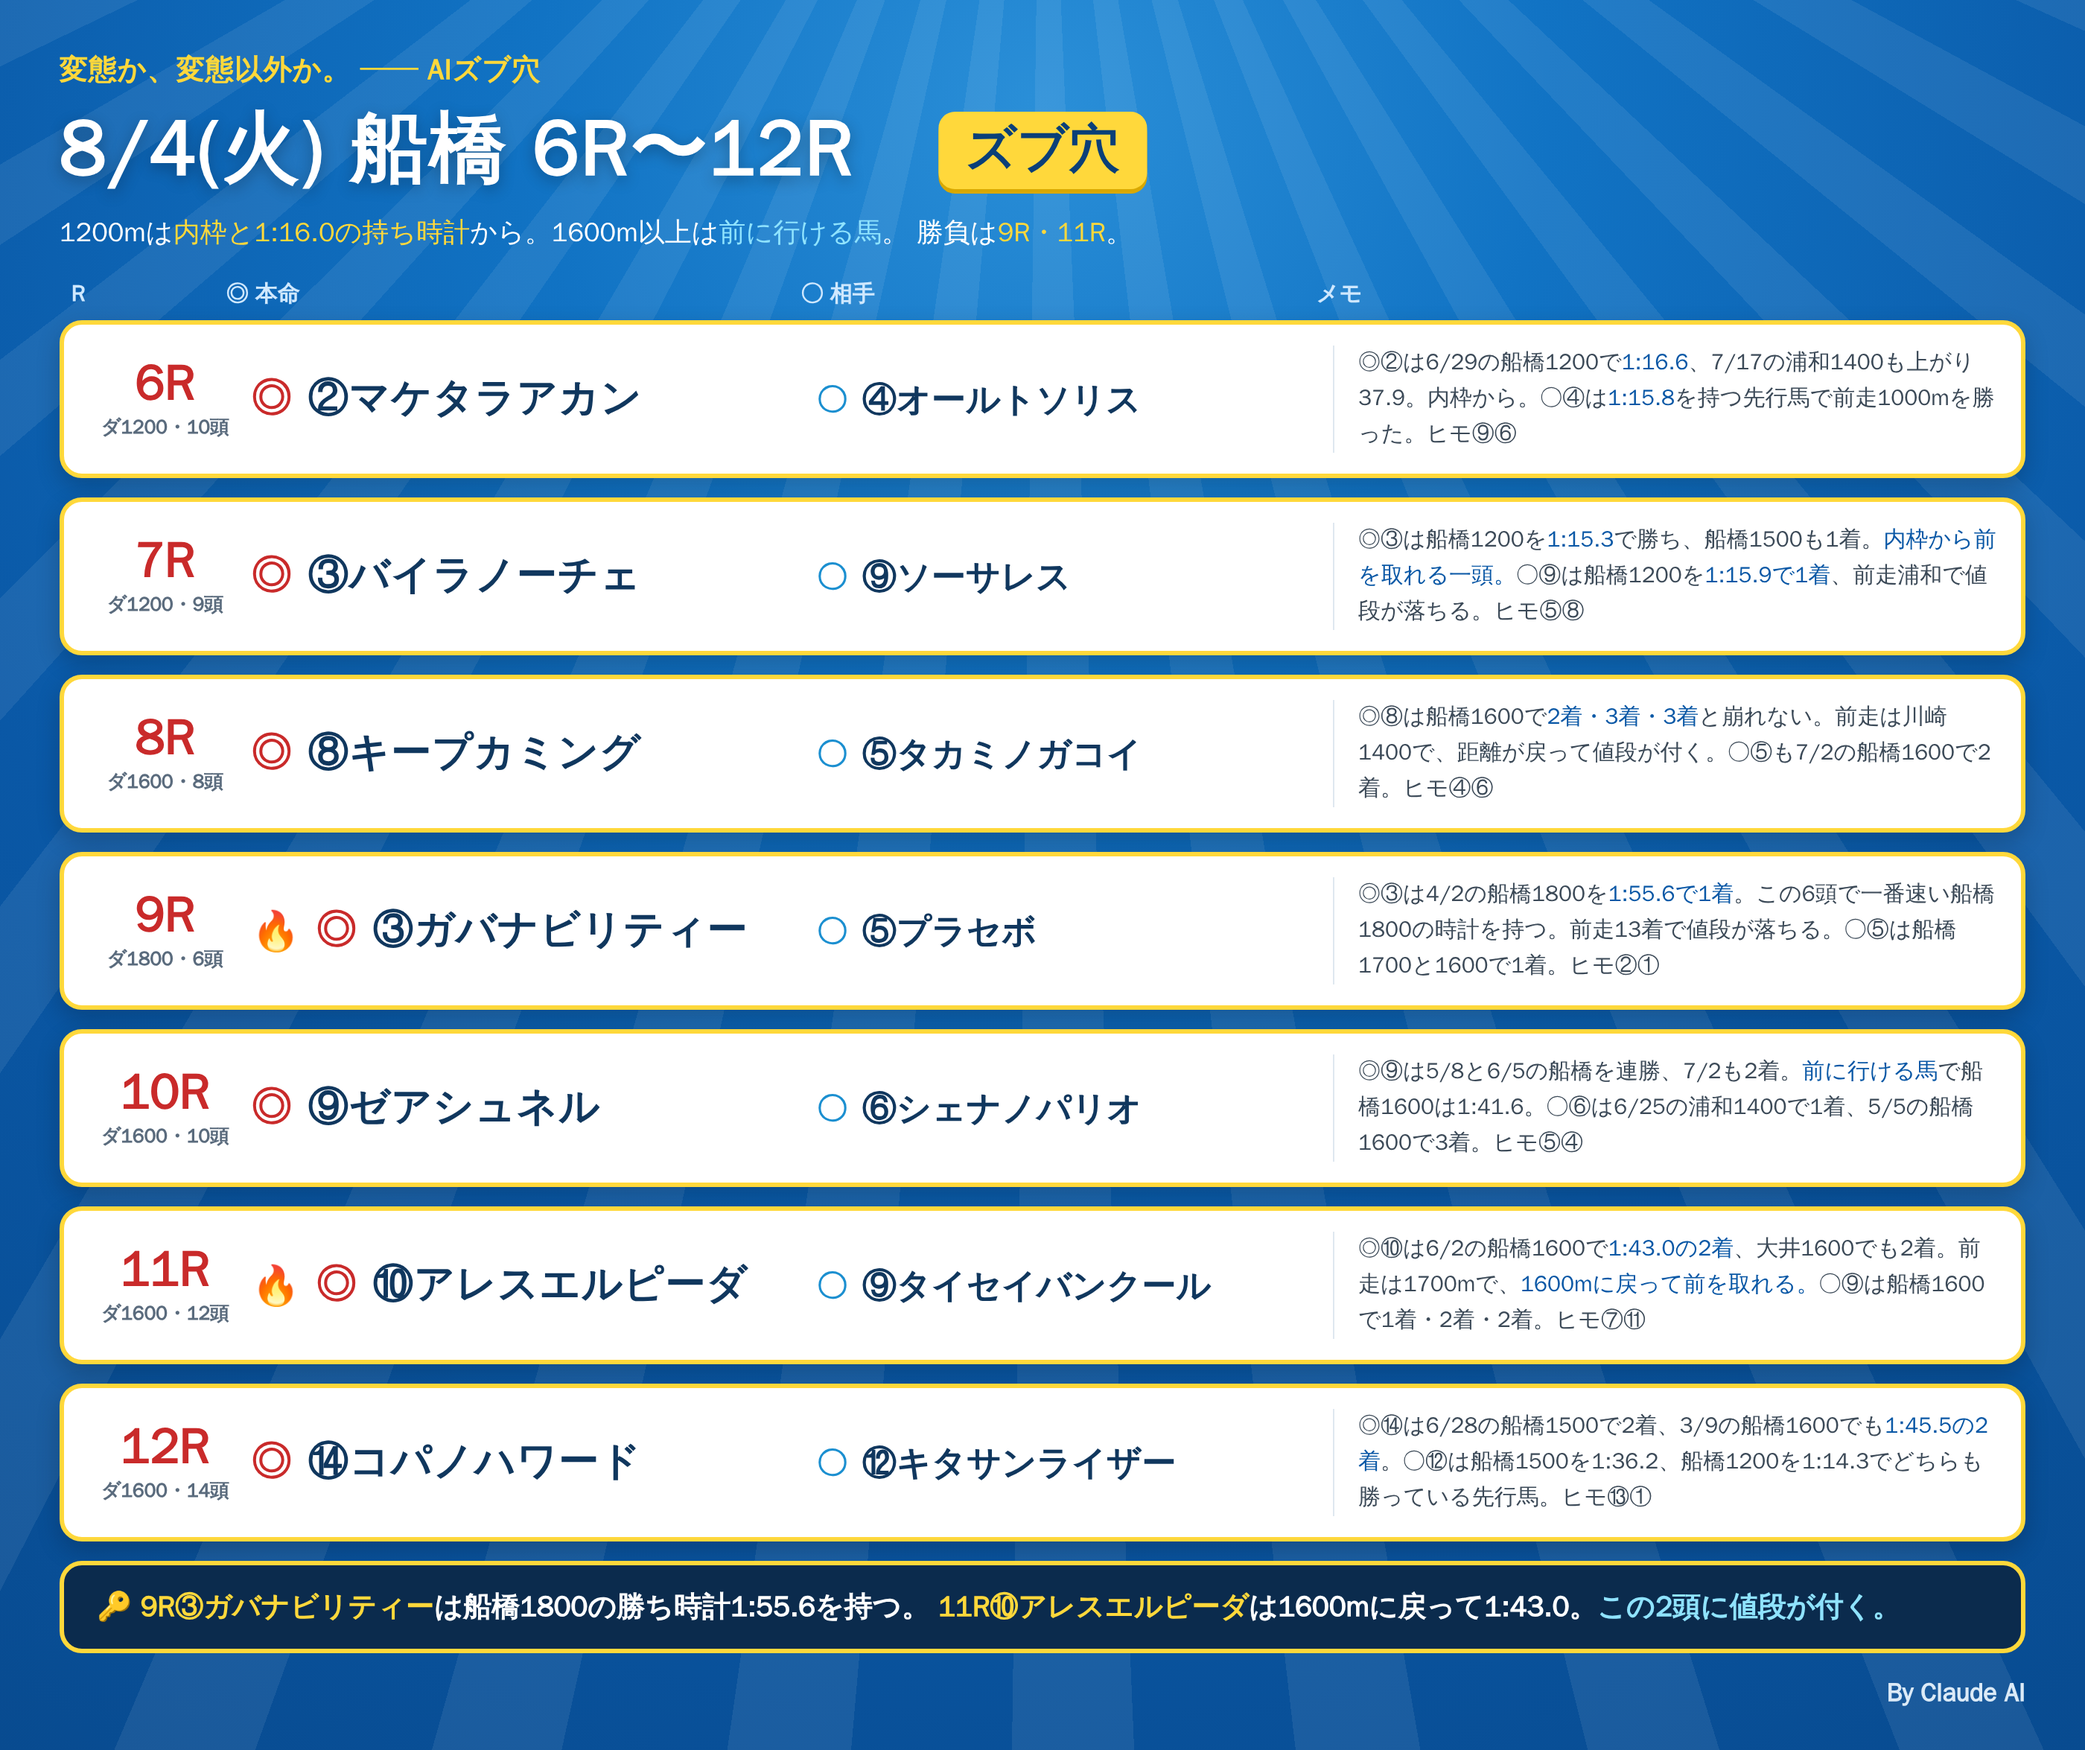
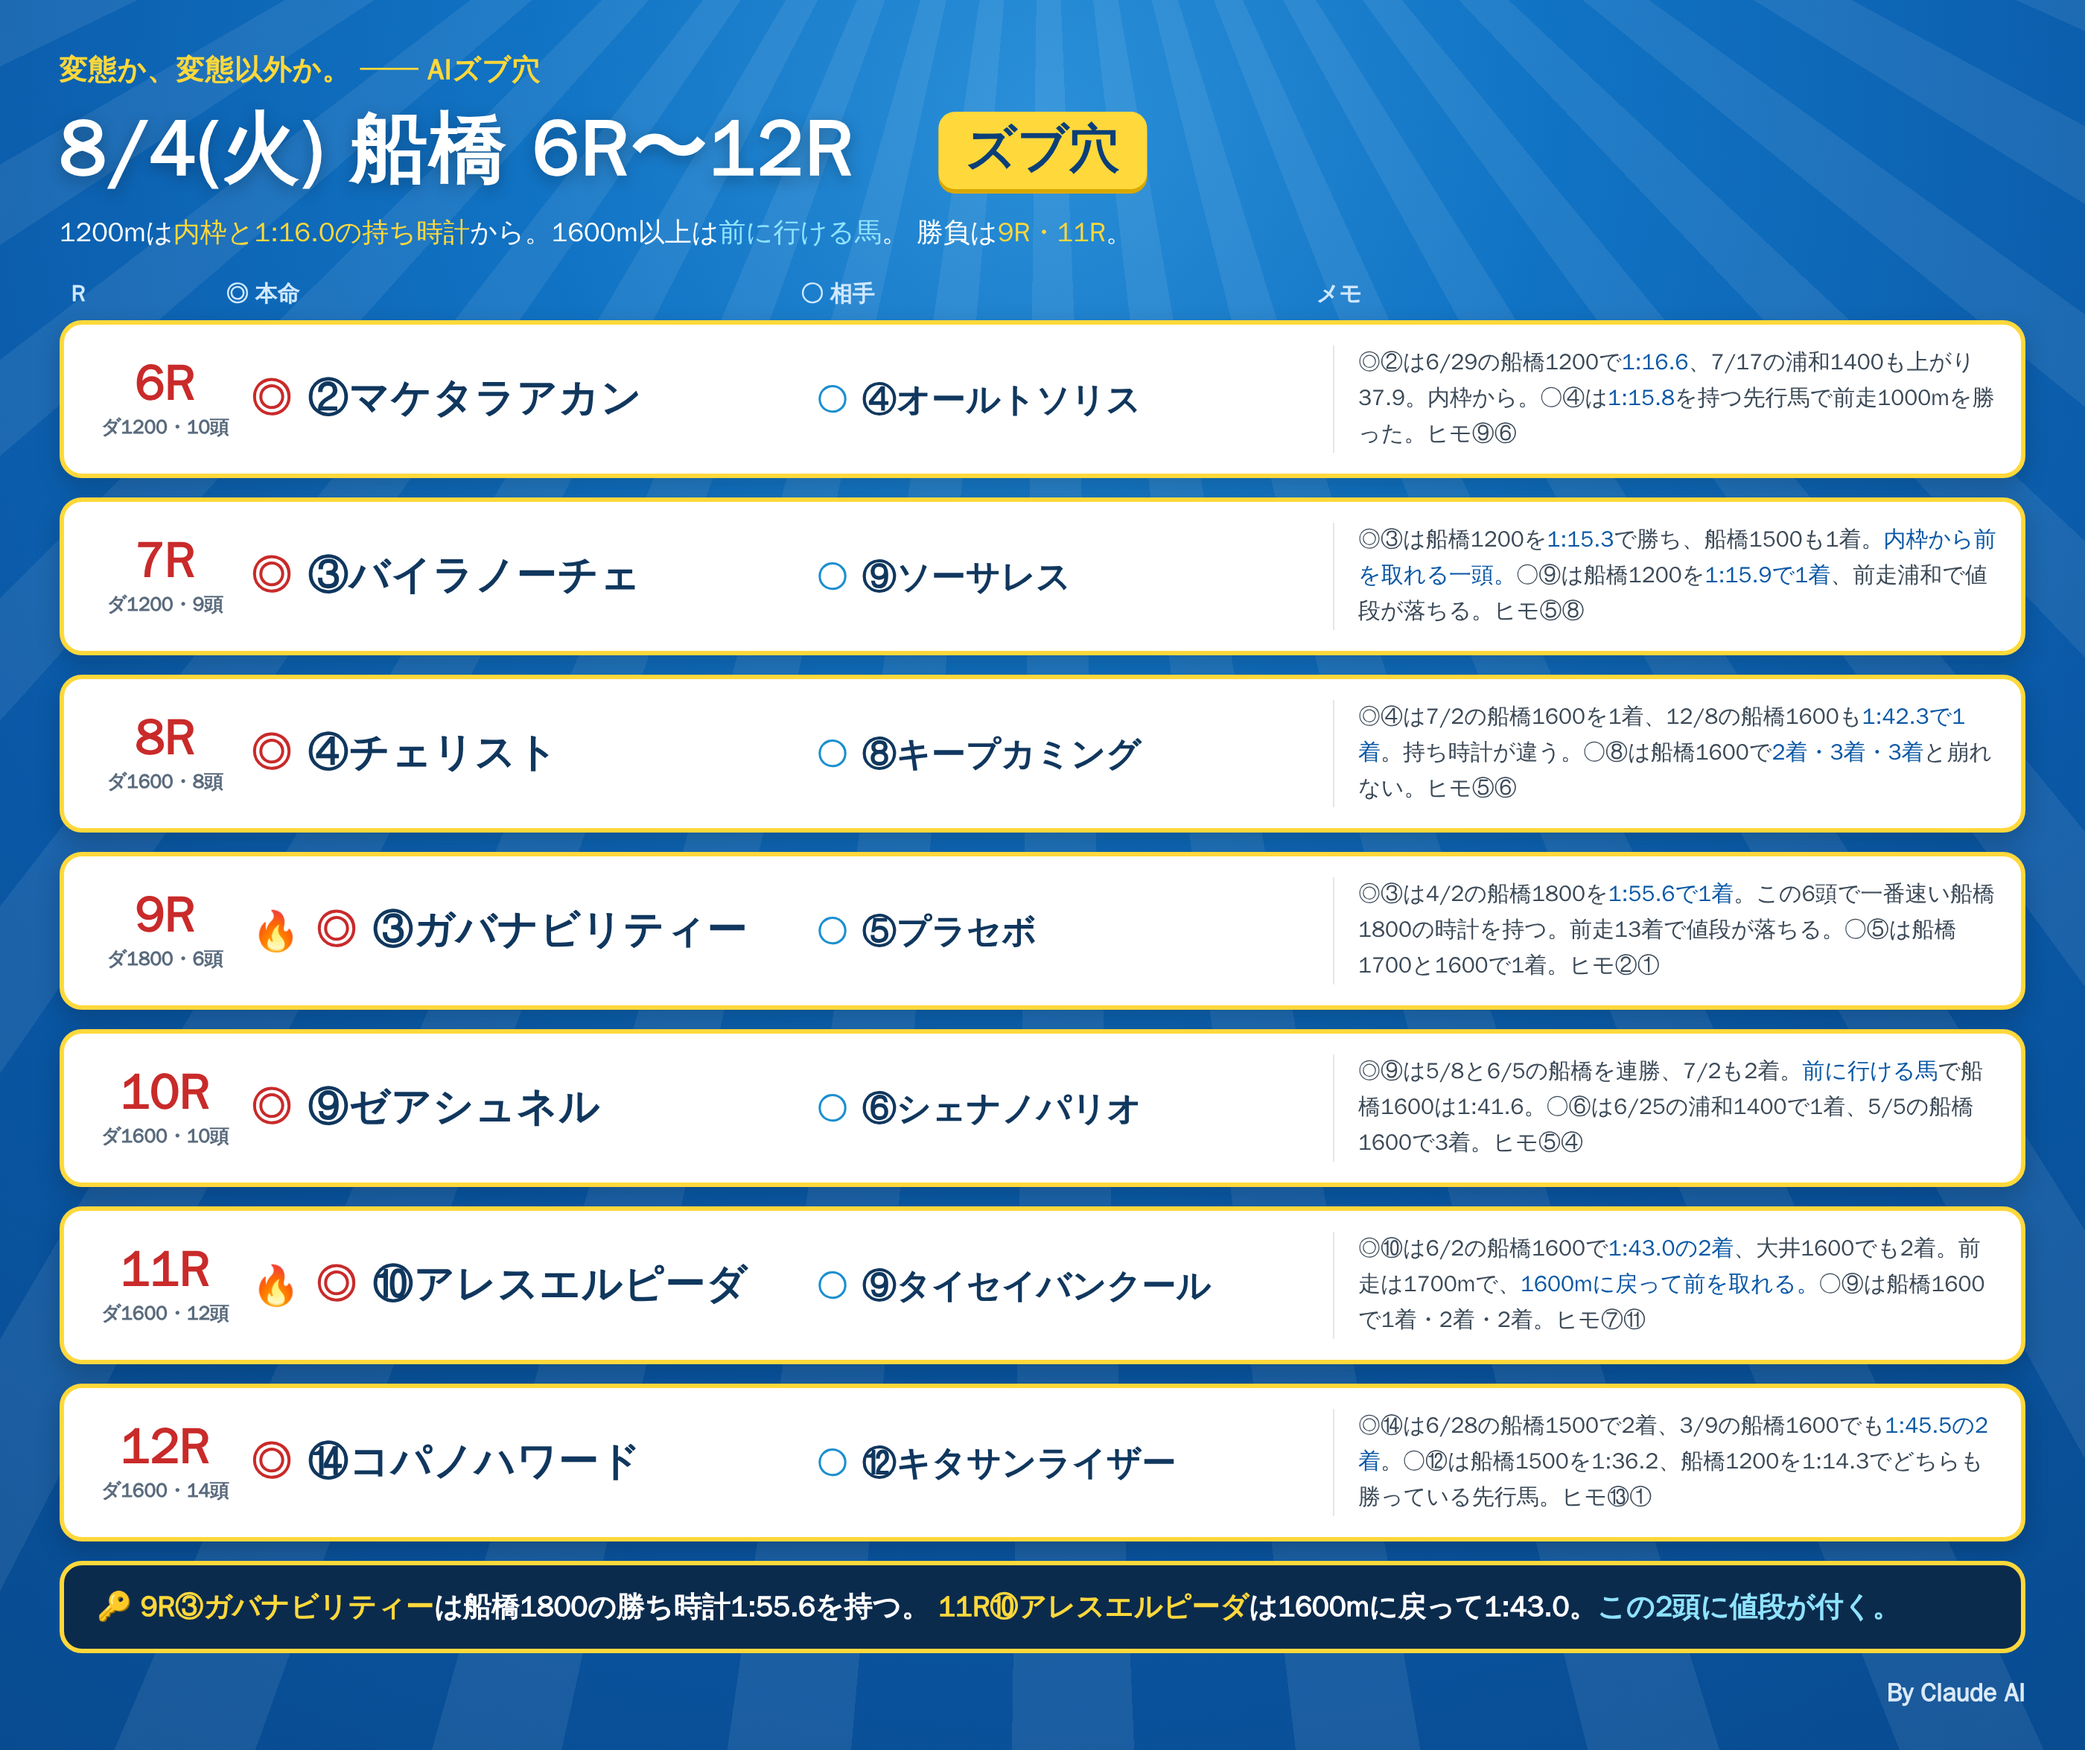
notes: 8R marks to 4 and 8
Claude-Session: https://claude.ai/code/session_01RoHscZkr96FNaxQWvUqgEw

diff --git a/notes/live/2026-08-04/funabashi_6_12.html b/notes/live/2026-08-04/funabashi_6_12.html
@@ -69,9 +69,9 @@
 
   <div class="row">
     <div class="rN"><div class="n">8R</div><div class="d">ダ1600・8頭</div></div>
-    <div class="hm"><span class="mk">◎</span><span class="nm">⑧キープカミング</span></div>
-    <div class="at"><span class="mk2">○</span><span class="nm2">⑤タカミノガコイ</span></div>
-    <div class="memo">◎⑧は船橋1600で<b>2着・3着・3着</b>と崩れない。前走は川崎1400で、距離が戻って値段が付く。○⑤も7/2の船橋1600で2着。ヒモ④⑥</div>
+    <div class="hm"><span class="mk">◎</span><span class="nm">④チェリスト</span></div>
+    <div class="at"><span class="mk2">○</span><span class="nm2">⑧キープカミング</span></div>
+    <div class="memo">◎④は7/2の船橋1600を1着、12/8の船橋1600も<b>1:42.3で1着</b>。持ち時計が違う。○⑧は船橋1600で<b>2着・3着・3着</b>と崩れない。ヒモ⑤⑥</div>
   </div>
 
   <div class="row">
